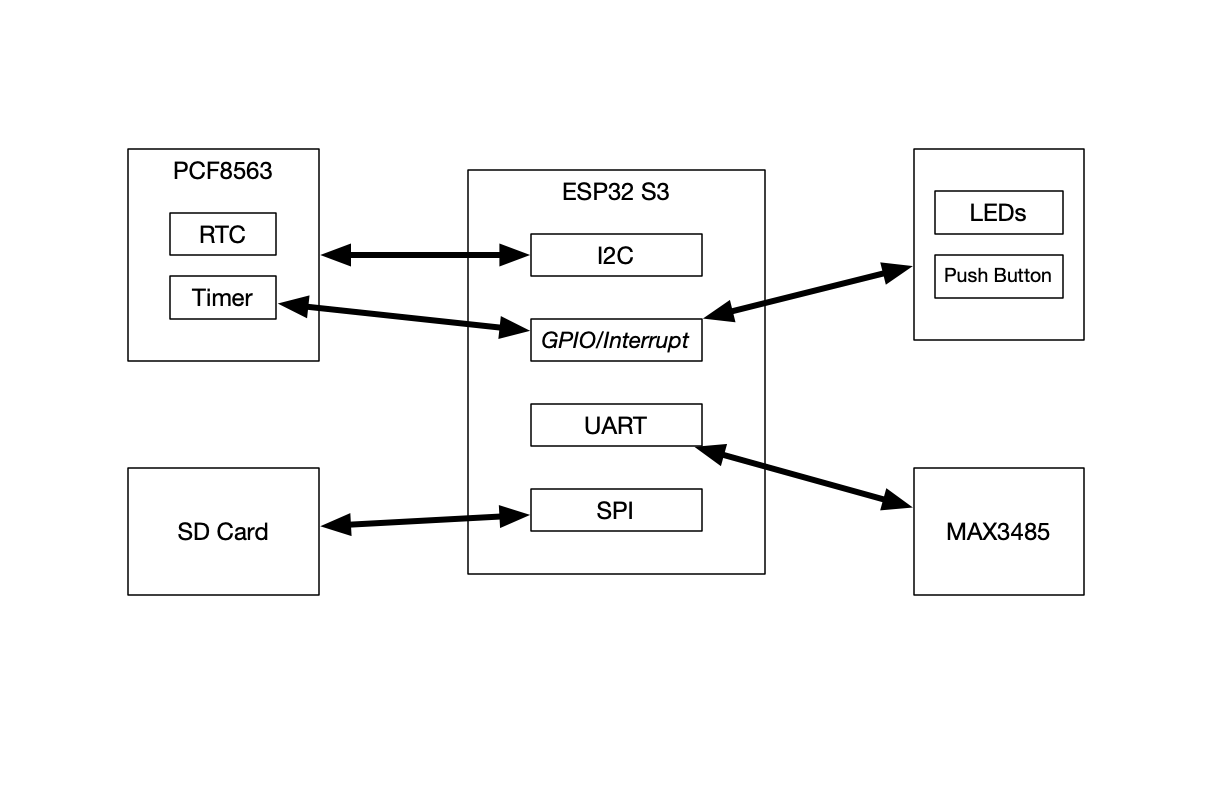
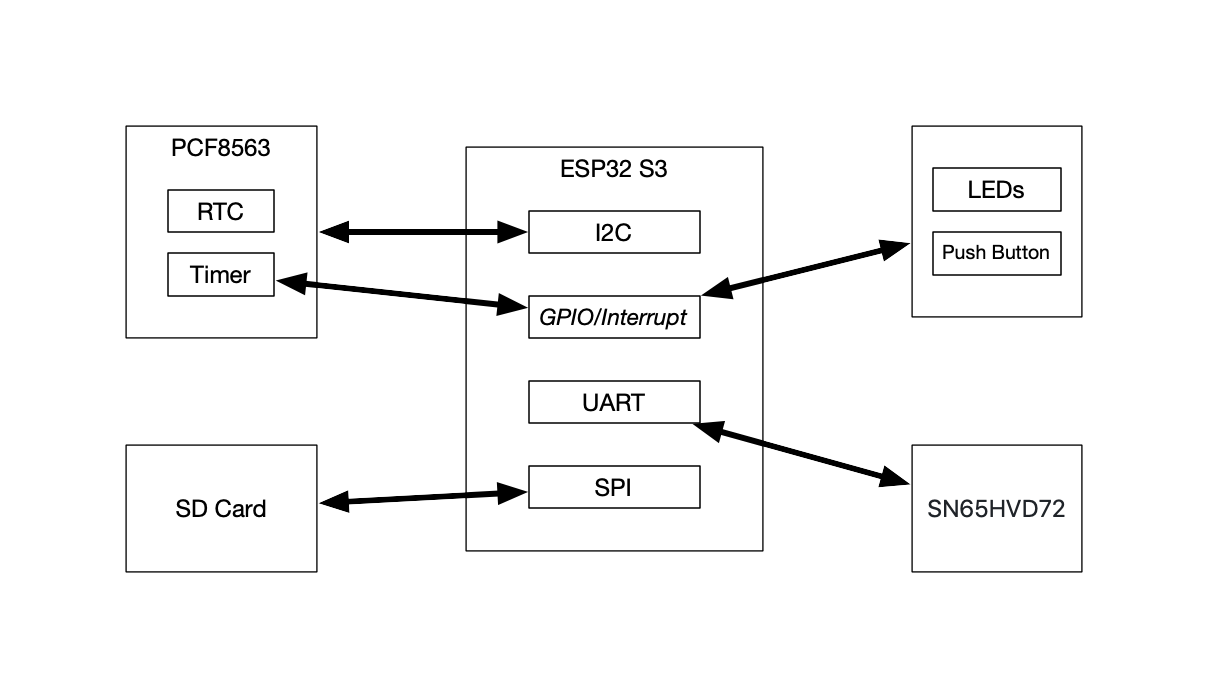
SN65HVD72 docu

diff --git a/docs/Architecture.md b/docs/Architecture.md
@@ -12,9 +12,9 @@ The PCF8563 contains the RTC (Real Time Clock) and a timer running at 1/60 Hz. I
 
 The push button toggles Wifi on and off. The yellow LED indicates the Wifi status. Without Wifi running the ESP32 goes into deep sleep between reading Modbus values to conserve energy. The green LED blinks whenever values are successfully read via Modbus and written to the SD card.
 
-## MAX3485
+## SN65HVD72
 
-The MAX3485 is the RS485 differential driver used to read values off the energy counter via Modbus. It is connected to one of the three available UARTs (Universal Asynchronous Receiver Transmitter) of the ESP32 S3.
+The SN65HVD72 is the RS485 differential driver used to read values off the energy counter via Modbus. It is connected to one of the three available UARTs (Universal Asynchronous Receiver Transmitter) of the ESP32 S3.
 
 ## SD Card
 
